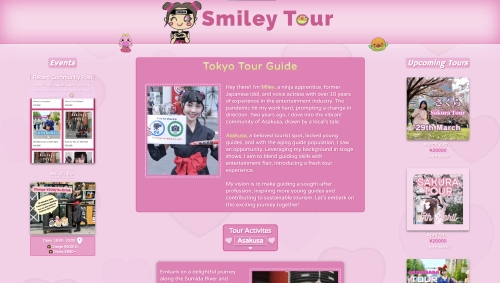
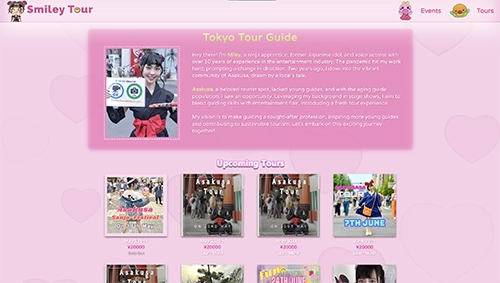
updated project to include open source contribution

diff --git a/app/page.tsx b/app/page.tsx
@@ -16,49 +16,90 @@ const Projects = [
     image: '/japan-events-image.webp',
     github: 'https://github.com/brandonrainey/Events-App',
     live: 'https://events-app-kappa-five.vercel.app/',
-    description:
-      'Fully featured event hosting platform allowing users to host and buy events. Integrates Stripe for payment processing, uses Clerk for authentication, and stores event and order data in MongoDB, utilizing a webhook to capture Stripe events. Created using Next.js, Typescript and styled with Tailwind CSS and Shadcn UI.',
+    description: (
+      <p className="text-white ">
+        Fully featured event hosting platform allowing users to host and buy
+        events. Integrates Stripe for payment processing, uses Clerk for
+        authentication, and stores event and order data in MongoDB, utilizing a
+        webhook to capture Stripe events. Created using Next.js, Typescript and
+        styled with Tailwind CSS and Shadcn UI.
+      </p>
+    ),
   },
   {
     title: 'Stripe Shop',
     image: '/stripe-shop-image-small.webp',
     github: 'https://github.com/brandonrainey/stripe-shop',
     live: 'https://stripe-shop.netlify.app/',
-    description:
-      'Developed a responsive e-commerce site with Stripe integration for seamless transactions and secure user authentication via Google OAuth. Utilized technologies such as Next.js, TypeScript, Redux Toolkit, and Tailwind CSS for modern interface design and efficient Firestore and Stripe events handling.',
+    description: (
+      <p className="text-white ">
+        Developed a responsive e-commerce site with Stripe integration for
+        seamless transactions and secure user authentication via Google OAuth.
+        Utilized technologies such as Next.js, TypeScript, Redux Toolkit, and
+        Tailwind CSS for modern interface design and efficient Firestore and
+        Stripe events handling.
+      </p>
+    ),
   },
+
+  {
+    title: 'Open Source Contribution',
+    image: '/yomitan-logo-wide.png',
+    github: 'https://github.com/themoeway/yomitan',
+    live: null,
+    description: (
+      <p className="text-white ">
+        Contributed to the open source project{' '}
+        <span className="font-bold text-lg text-[#9bc1e7]">Yomitan</span>, a
+        Japanese popup dictionary extention for Chrome and Firefox. Improved
+        clarity/readability and expanded behavior of a function used for user
+        accessibility. Developed a new test with Vitest to ensure the function
+        works as expected for current and future versions.
+      </p>
+    ),
+  },
+
   {
     title: 'Game Feedback',
     image: '/game-feedback-image-small.webp',
     github: 'https://github.com/brandonrainey/game-feedback',
     live: 'https://game-feedback.netlify.app',
-    description:
-      'Created an interactive application with CRUD functionality for posts, comments, and replies, using MongoDB for efficient data handling. The app, styled with SCSS, leverages the Next.js framework for a modern, visually appealing interface.',
+    description: (
+      <p className="text-white ">
+        Created an interactive application with CRUD functionality for posts,
+        comments, and replies, using MongoDB for efficient data handling. The
+        app, styled with SCSS, leverages the Next.js framework for a modern,
+        visually appealing interface.
+      </p>
+    ),
   },
   {
     title: 'Smiley Tour',
     image: '/smileytour-image-small.webp',
     github: 'https://github.com/brandonrainey/smiley-tours',
     live: 'https://smileytour.guide',
-    description:
-      'Crafted a vibrant website showcasing the tour guide services in Asakusa, Tokyo, led by a former Japanese idol. Leveraged SEO best practices to improve search engine discoverability, and used Next.js and Tailwind CSS for a modern, appealing interface.',
+    description: (
+      <p className="text-white ">
+        Crafted a vibrant website showcasing the tour guide services in Asakusa,
+        Tokyo, led by a former Japanese idol. Leveraged SEO best practices to
+        improve search engine discoverability, and used Next.js and Tailwind CSS
+        for a modern, appealing interface.
+      </p>
+    ),
   },
   {
     title: 'Anime Database',
     image: '/anime-db-image-small.webp',
     github: 'https://github.com/brandonrainey/anime-database',
     live: 'https://my-anime-database.netlify.app/',
-    description:
-      'Developed a dynamic application that fetches data from an API to display in a user-friendly grid of cards, with infinite scrolling and search functionality. The app uses Next.js with Sever Actions, TypeScript, and is styled with Tailwind CSS for a modern look.',
-  },
-
-  {
-    title: 'Tile Memory Game',
-    image: '/tile-game-image-small.webp',
-    github: 'https://github.com/brandonrainey/tile-game',
-    live: 'https://tile-memory-game.netlify.app',
-    description:
-      'Developed an engaging memory game with various grid sizes, challenging users to memorize patterns within a time limit, enhanced by appealing animations and progress tracking. The game is built with Next.js and styled with Tailwind CSS for a modern, appealing interface.',
+    description: (
+      <p className="text-white ">
+        Developed a dynamic application that fetches data from an API to display
+        in a user-friendly grid of cards, with infinite scrolling and search
+        functionality. The app uses Next.js with Sever Actions, TypeScript, and
+        is styled with Tailwind CSS for a modern look.
+      </p>
+    ),
   },
 ]
 

diff --git a/components/ProjectCard.tsx b/components/ProjectCard.tsx
@@ -19,12 +19,12 @@ export default function ProjectCard({ project }: ProjectCardProps) {
         alt={project.title}
       />
       <div className="bg-[#2a2833] text-white p-4">
-        <h2 className="font-bold text-4xl pb-4">{project.title}</h2>
-        <p className="text-white">{project.description}</p>
+        <h2 className="font-bold text-4xl pb-4 text-center">{project.title}</h2>
+        {project.description}
       </div>
       <div className="bg-[#2a2833] flex justify-around mt-auto pb-2">
-        <a href={project.live}>
-          <button className="text-white hover:bg-[#313c89] text-lg border-2 hover:border-2 px-4 border-[#4a79ae] rounded transition-all ease-in-out duration-150">
+        <a href={project.live} className={`${project.title === 'Open Source Contribution' && 'hidden'}`}>
+          <button className={`text-white hover:bg-[#313c89] text-lg border-2 hover:border-2 px-4 border-[#4a79ae] rounded transition-all ease-in-out duration-150 `}>
             Live
           </button>
         </a>

diff --git a/components/Intro.tsx b/components/Intro.tsx
@@ -46,7 +46,7 @@ export default function Intro() {
         </p>
       </div>
 
-      <div className="absolute bg-[#444059] w-[100%] h-[100%]  z-[-1] rounded shadow-icons shadow-slate-800 blur-3xl"></div>
+      <div className="absolute bg-[#554b84] w-[110%] h-[100%]  z-[-1] rounded shadow-icons shadow-[#10121d] blur-3xl backdrop-blur-3xl"></div>
     </section>
   )
 }
